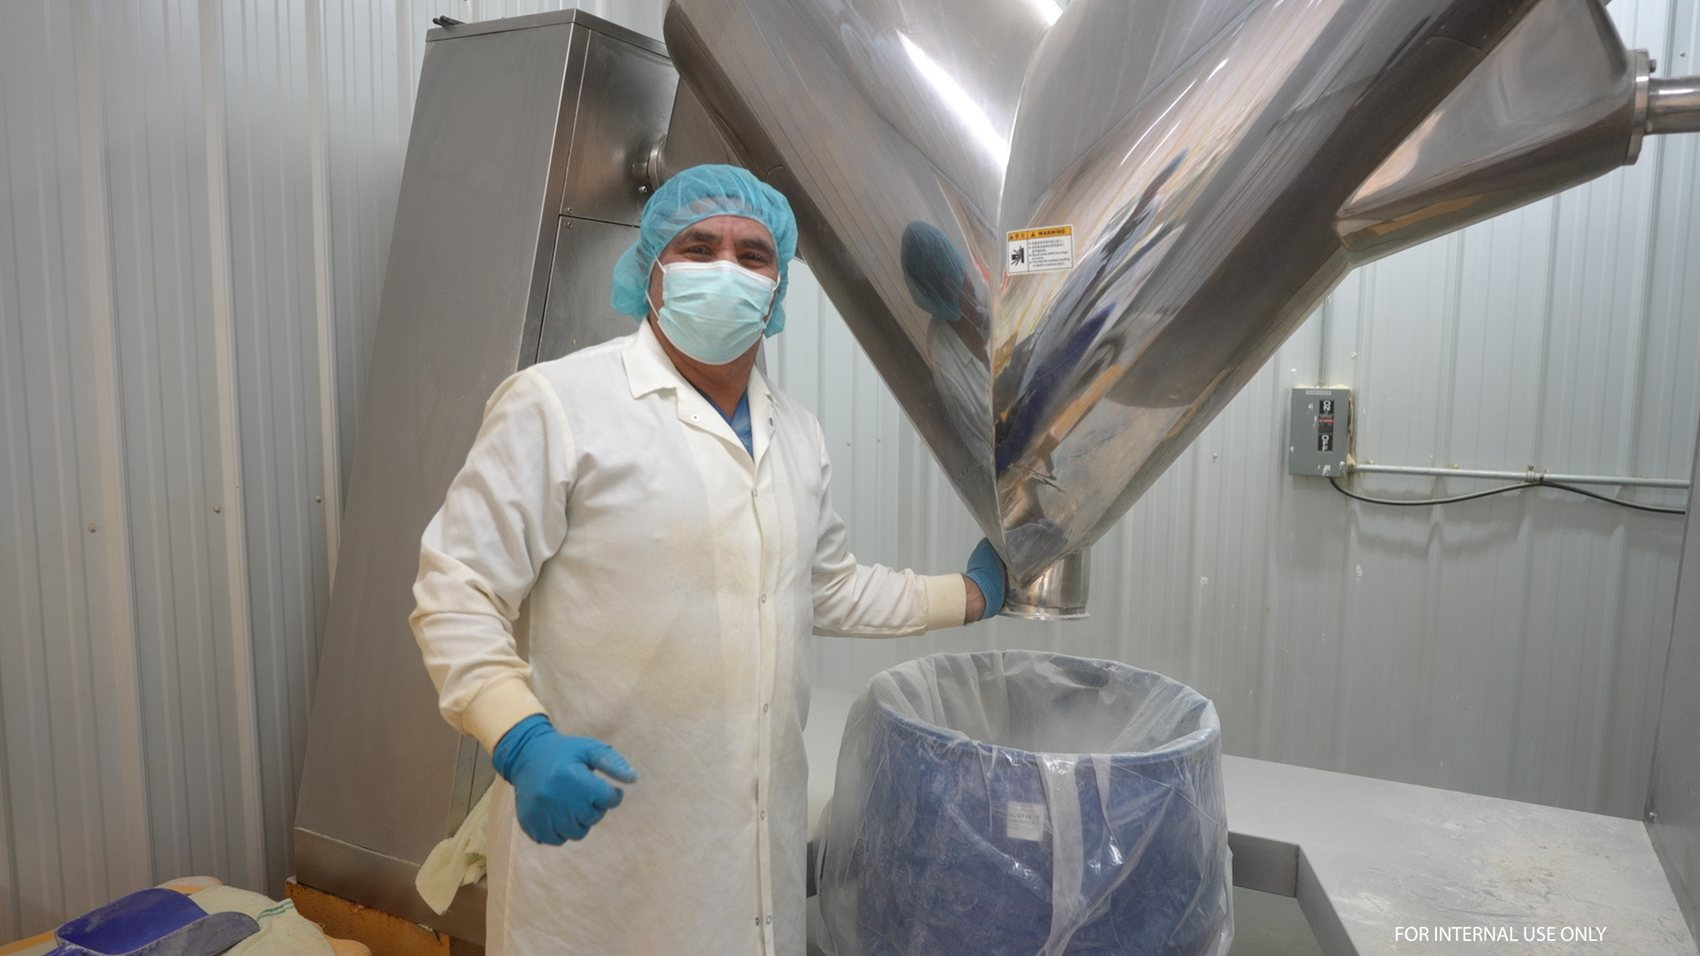
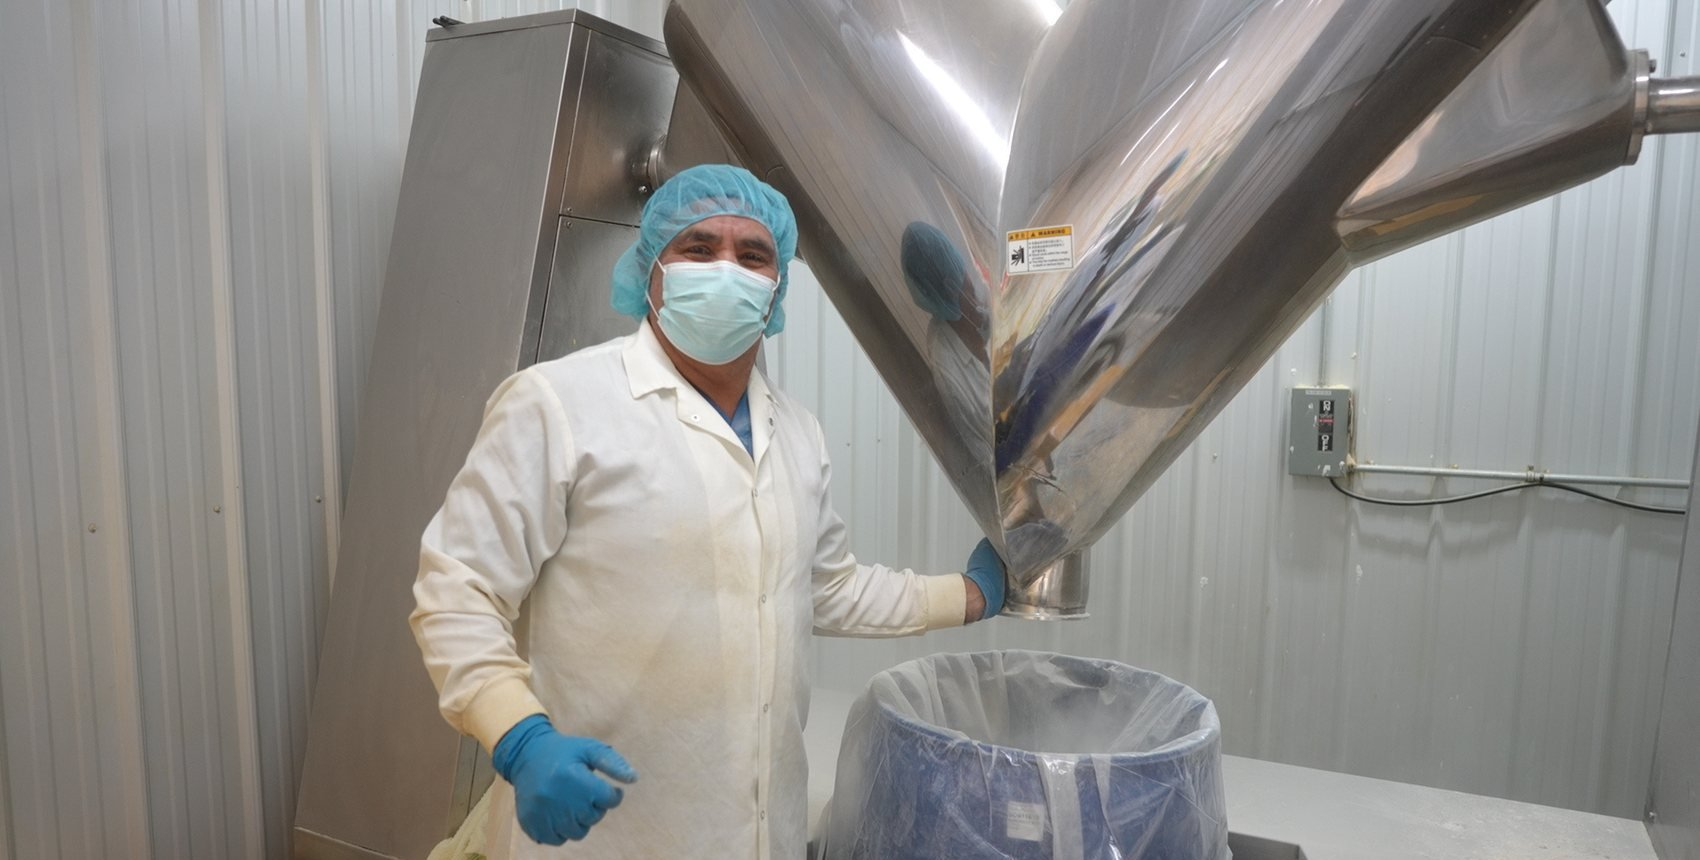
Chronology fix, two redundant visuals cut, internal-use watermarks removed
Structure: Partnership moved from chapter 04 to 09. Service-model detail
(response times, QBRs, account structure) was arriving before the buyer
had seen a single capability; the arc now runs thesis > platform > how
you win > four entities > retail proof > partnership > team > plan.
Chapters renumbered 01-11, TOC and figures follow.

Cut: figure 03 (reach rings) restated facts that chapters 02, 04 and 11
each prove properly; the partnership photo strip reused images already
serving as band backgrounds; the team section opened with a paragraph
duplicating its own band sub. The calculator also referenced 'section
03' for a comparison that lives in the thesis.

Caught in review: four extracted photos (fac-blend, fac-bottling,
labworker-bw, sup-line) carried a FOR INTERNAL USE ONLY watermark from
the source PDF, two of them visible on the live page. Bottom 10%
cropped off all four.

diff --git a/index.html b/index.html
@@ -609,12 +609,12 @@ html.tswap,html.tswap *{transition:background-color .4s ease,color .4s ease,bord
   <a href="#thesis"><span class="n">01</span>The Thesis</a>
   <a href="#ecosystem"><span class="n">02</span>Ecosystem</a>
   <a href="#wins"><span class="n">03</span>How You Win</a>
-  <a href="#partnership"><span class="n">04</span>Partnership</a>
-  <a href="#labs"><span class="n">05</span>Health Labs</a>
-  <a href="#ingredients"><span class="n">06</span>Ingredients</a>
-  <a href="#curi"><span class="n">07</span>Curí</a>
-  <a href="#supplements"><span class="n">08</span>Supplements</a>
-  <a href="#retail"><span class="n">09</span>Retail</a>
+  <a href="#labs"><span class="n">04</span>Health Labs</a>
+  <a href="#ingredients"><span class="n">05</span>Ingredients</a>
+  <a href="#curi"><span class="n">06</span>Curí</a>
+  <a href="#supplements"><span class="n">07</span>Supplements</a>
+  <a href="#retail"><span class="n">08</span>Retail</a>
+  <a href="#partnership"><span class="n">09</span>Partnership</a>
   <a href="#team"><span class="n">10</span>The Team</a>
   <a href="#plan"><span class="n">11</span>Plan</a>
   <a href="#contact">Contact</a>
@@ -993,46 +993,6 @@ html.tswap,html.tswap *{transition:background-color .4s ease,color .4s ease,bord
       </div>
     </div>
 
-    <figure class="dfig rv" id="fig-reach" style="margin:0">
-      <div class="fig-head">
-        <div><span class="lab">Figure 03</span><h3 class="h3">The reach of one platform</h3></div>
-        <p class="body">Three numbers carry the whole capability argument. Each one is a different axis of the same claim: you will not outgrow this partner, in category, in format, or in scope.</p>
-        <span class="fig-hint">Select a ring</span>
-      </div>
-      <div class="fig-body">
-        <div class="fig-plot">
-          <svg viewBox="0 0 900 300" role="img" aria-label="Three rings: 65 plus health categories, six product formats, and an A to Z full service stack">
-            <g class="hit" data-k="Market reach" data-t="65+ health categories" data-d="From sports nutrition and weight management to prenatal, nootropics and adaptogens. The live stock catalog alone spans 31 categories with four or more SKUs each, which you can open in chapter 11." data-m="Twelve representative categories are shown in the grid below." tabindex="0" role="button" aria-pressed="true" transform="translate(150,140)">
-              <circle r="96" fill="none" stroke="var(--rule-soft)" stroke-width="20"/>
-              <circle class="rg drawline" style="--L:603" r="96" fill="none" fill-opacity="0" stroke="var(--teal-band)" stroke-width="20" transform="rotate(-90)" stroke-dasharray="512 603"/>
-              <text y="-2" text-anchor="middle" class="lv" style="font-size:40px">65+</text>
-              <text y="24" text-anchor="middle" class="ls">Categories</text>
-              <text y="128" text-anchor="middle" class="lb">Market reach</text>
-            </g>
-            <g class="hit" data-k="Format coverage" data-t="Six product formats" data-d="Capsules, tablets, powders, gummies, liquids and softgels, produced on purpose-built lines rather than repurposed pharma equipment. One formulation can be validated across every format on the same campus." data-m="Softgels are produced via qualified external partners." tabindex="0" role="button" aria-pressed="false" transform="translate(450,140)">
-              <circle r="96" fill="none" stroke="var(--rule-soft)" stroke-width="20"/>
-              <circle class="rg drawline" style="--L:603" r="96" fill="none" fill-opacity="0" stroke="var(--teal)" stroke-width="20" transform="rotate(-90)" stroke-dasharray="603 0"/>
-              <text y="-2" text-anchor="middle" class="lv" style="font-size:40px">6</text>
-              <text y="24" text-anchor="middle" class="ls">Formats</text>
-              <text y="128" text-anchor="middle" class="lb">Capsules to gummies</text>
-            </g>
-            <g class="hit" data-k="Scope of service" data-t="A to Z, formulation to shelf" data-d="Nine steps, one company: raw ingredients, formulation, manufacturing, quality control, testing, labeling, packaging, warehousing and shipping. Nothing in that list is subcontracted out and back." data-m="This is the same nine-step chain shown in chapter 02." tabindex="0" role="button" aria-pressed="false" transform="translate(750,140)">
-              <circle r="96" fill="none" stroke="var(--rule-soft)" stroke-width="20"/>
-              <circle class="rg drawline" style="--L:603" r="96" fill="none" fill-opacity="0" stroke="var(--ink)" stroke-width="20" transform="rotate(-90)" stroke-dasharray="603 0"/>
-              <text y="-2" text-anchor="middle" class="lv" style="font-size:38px">A&#8211;Z</text>
-              <text y="24" text-anchor="middle" class="ls">Full stack</text>
-              <text y="128" text-anchor="middle" class="lb">Formulation to shelf</text>
-            </g>
-          </svg>
-        </div>
-        <aside class="fig-read" data-read>
-          <span class="fk" data-k></span>
-          <div class="ft" data-t></div>
-          <p class="fd" data-d></p>
-          <p class="fm" data-m></p>
-        </aside>
-      </div>
-    </figure>
 
     <div class="two even">
       <div class="grid g2">
@@ -1046,81 +1006,10 @@ html.tswap,html.tswap *{transition:background-color .4s ease,color .4s ease,bord
   </div>
 </section>
 
-<!-- ================= 04 PARTNERSHIP ================= -->
-<section class="band" id="partnership" style="--bimg:url('img/sup-line.jpg');--bpos:center 30%">
-  <div class="wrap band-in">
-    <div class="idx num">04</div>
-    <div>
-      <h2 class="h1">Your FAME-X Partnership</h2>
-      <p class="sub">One dedicated team. One connected platform.</p>
-    </div>
-  </div>
-</section>
-
-<section class="sec">
-  <div class="wrap stack">
-    <div class="pillars">
-      <div class="pillar tint">
-        <h3 class="h2" style="font-size:clamp(24px,2.6vw,36px)">4-HR Response Commitment</h3>
-        <p class="body"><b>Proactive brand support.</b> During business hours.</p>
-      </div>
-      <div class="pillar tint">
-        <h3 class="h2" style="font-size:clamp(24px,2.6vw,36px)">Nimble Manufacturing</h3>
-        <p class="body"><b>Scheduled production and second-shift access,</b> aligned with retail strategy.</p>
-      </div>
-      <div class="pillar tint">
-        <h3 class="h2" style="font-size:clamp(24px,2.6vw,36px)">24/7</h3>
-        <p class="body"><b>Always on portal visibility.</b> Real-time, customizable triggers.</p>
-      </div>
-    </div>
-
-    <div>
-      <div class="eco-tabs" role="tablist" aria-label="Partnership detail" id="ptabs">
-        <button role="tab" data-p="inc" aria-selected="true">What's included</button>
-        <button role="tab" data-p="why" aria-selected="false">Why F.A.M.E.</button>
-        <button role="tab" data-p="roi" aria-selected="false">ROI acceleration</button>
-      </div>
-      <div class="ptab" id="ptab-inc">
-        <ul class="plain">
-          <li><b>Dedicated account representative.</b> Executive-level strategist aligned with your business objectives.</li>
-          <li><b>In-house team.</b> Cross-functional experts mobilized for immediate issue resolution.</li>
-          <li><b>Executive escalation protocol.</b> Direct access to senior leadership when required.</li>
-          <li><b>Weekly status meeting.</b> Proactive updates that remove the need to request information.</li>
-          <li><b>Quarterly business reviews.</b> Strategic analysis sessions with improvement roadmaps.</li>
-        </ul>
-      </div>
-      <div class="ptab" id="ptab-why" hidden>
-        <ul class="plain">
-          <li><b>Multi-entity platform integration.</b> One ecosystem across ingredients, manufacturing, testing and data.</li>
-          <li><b>Infrastructure built to scale.</b> Production systems designed from the ground up for large runs without compromising quality or timeline.</li>
-          <li><b>Scale-appropriate account direction.</b> Executive-level account management with direct decision-making authority.</li>
-          <li><b>Enterprise-level risk management.</b> Quality assurance systems designed to protect and scale brands.</li>
-        </ul>
-      </div>
-      <div class="ptab" id="ptab-roi" hidden>
-        <ul class="plain">
-          <li><b>Revenue acceleration.</b> Earlier shelf dates pull revenue forward.</li>
-          <li><b>Market share capture.</b> Early entry into emerging categories.</li>
-          <li><b>Opportunity capture.</b> Platform speed reduces lost revenue from delayed launches.</li>
-          <li><b>Protection.</b> Formula optimization without quality compromise.</li>
-          <li><b>Brand elevation.</b> Quality consistency supporting premium positioning.</li>
-        </ul>
-      </div>
-    </div>
-
-    <div class="strip s4">
-      <div class="sc"><img src="img/fac-sieve.jpg" alt="Operator sieving material"></div>
-      <div class="sc"><img src="img/sup-line.jpg" alt="Operator on the bottling line"></div>
-      <div class="sc"><img src="img/capsules-scatter.jpg" alt="Finished capsules"></div>
-      <div class="sc"><img src="img/hand-capsules.jpg" alt="A hand holding finished capsules"></div>
-    </div>
-  </div>
-</section>
-
 <!-- ================= 05 HEALTH LABS ================= -->
 <section class="band" id="labs" style="--bimg:url('img/fac-blend.jpg');--bpos:center 40%">
   <div class="wrap band-in">
-    <div class="idx num">05</div>
+    <div class="idx num">04</div>
     <div>
       <h2 class="h1">F.A.M.E. Health Labs</h2>
       <p class="sub">Our full-service contract manufacturer. Six formats, sixty-five plus categories, one quality system.</p>
@@ -1176,7 +1065,7 @@ html.tswap,html.tswap *{transition:background-color .4s ease,color .4s ease,bord
 <!-- ================= 06 INGREDIENTS ================= -->
 <section class="band" id="ingredients" style="--bimg:url('img/ing-turmeric.jpg');--bpos:center 50%">
   <div class="wrap band-in">
-    <div class="idx num">06</div>
+    <div class="idx num">05</div>
     <div>
       <h2 class="h1">F.A.M.E. Ingredients</h2>
       <p class="sub">Our in-house material sourcing, blending and innovation arm. Controlling the input is what makes the output fast.</p>
@@ -1215,7 +1104,7 @@ html.tswap,html.tswap *{transition:background-color .4s ease,color .4s ease,bord
 
     <figure class="dfig rv" id="fig-ing" style="margin:0">
       <div class="fig-head">
-        <div><span class="lab">Figure 04</span><h3 class="h3">What owning the ingredient buys you</h3></div>
+        <div><span class="lab">Figure 03</span><h3 class="h3">What owning the ingredient buys you</h3></div>
         <p class="body">Most manufacturers control one of these and buy the other two. Holding all three on one campus is why a formulation change does not become a procurement project.</p>
         <span class="fig-hint">Select a region</span>
       </div>
@@ -1263,7 +1152,7 @@ html.tswap,html.tswap *{transition:background-color .4s ease,color .4s ease,bord
 <!-- ================= 07 CURI ================= -->
 <section class="band" id="curi" style="--bimg:url('img/curi-tubes.jpg');--bpos:center 42%">
   <div class="wrap band-in">
-    <div class="idx num">07</div>
+    <div class="idx num">06</div>
     <div>
       <h2 class="h1">Curí</h2>
       <p class="sub">Our in-house scientific innovation, testing and commercialization team. Accuracy protects people.</p>
@@ -1311,7 +1200,7 @@ html.tswap,html.tswap *{transition:background-color .4s ease,color .4s ease,bord
 
     <figure class="dfig rv" id="fig-curi" style="margin:0">
       <div class="fig-head">
-        <div><span class="lab">Figure 05</span><h3 class="h3">Accredited testing and contract research, in one place</h3></div>
+        <div><span class="lab">Figure 04</span><h3 class="h3">Accredited testing and contract research, in one place</h3></div>
         <p class="body">Accredited testing labs and contract research organizations are usually separate vendors with separate queues. Curí is both, specialized in supplements, inside the same company that makes the product.</p>
         <span class="fig-hint">Select a region</span>
       </div>
@@ -1363,7 +1252,7 @@ html.tswap,html.tswap *{transition:background-color .4s ease,color .4s ease,bord
 <!-- ================= 08 SUPPLEMENTS ================= -->
 <section class="band" id="supplements" style="--bimg:url('img/pack-family.jpg');--bpos:center 60%">
   <div class="wrap band-in">
-    <div class="idx num">08</div>
+    <div class="idx num">07</div>
     <div>
       <h2 class="h1">F.A.M.E. Supplements</h2>
       <p class="sub">Our in-house stock and rapid launch platform. Two paths to shelf, both faster than custom.</p>
@@ -1439,7 +1328,7 @@ html.tswap,html.tswap *{transition:background-color .4s ease,color .4s ease,bord
 <!-- ================= 09 RETAIL ================= -->
 <section class="band" id="retail" style="--bimg:url('img/hero-cover.jpg');--bpos:center 30%">
   <div class="wrap band-in">
-    <div class="idx num">09</div>
+    <div class="idx num">08</div>
     <div>
       <h2 class="h1">Brand Retail Partners</h2>
       <p class="sub">Our clients' products sell across national retail and e-commerce channels.</p>
@@ -1470,6 +1359,71 @@ html.tswap,html.tswap *{transition:background-color .4s ease,color .4s ease,bord
   </div>
 </section>
 
+<!-- ================= 04 PARTNERSHIP ================= -->
+<section class="band" id="partnership" style="--bimg:url('img/sup-line.jpg');--bpos:center 30%">
+  <div class="wrap band-in">
+    <div class="idx num">09</div>
+    <div>
+      <h2 class="h1">Your FAME-X Partnership</h2>
+      <p class="sub">One dedicated team. One connected platform.</p>
+    </div>
+  </div>
+</section>
+
+<section class="sec">
+  <div class="wrap stack">
+    <div class="pillars">
+      <div class="pillar tint">
+        <h3 class="h2" style="font-size:clamp(24px,2.6vw,36px)">4-HR Response Commitment</h3>
+        <p class="body"><b>Proactive brand support.</b> During business hours.</p>
+      </div>
+      <div class="pillar tint">
+        <h3 class="h2" style="font-size:clamp(24px,2.6vw,36px)">Nimble Manufacturing</h3>
+        <p class="body"><b>Scheduled production and second-shift access,</b> aligned with retail strategy.</p>
+      </div>
+      <div class="pillar tint">
+        <h3 class="h2" style="font-size:clamp(24px,2.6vw,36px)">24/7</h3>
+        <p class="body"><b>Always on portal visibility.</b> Real-time, customizable triggers.</p>
+      </div>
+    </div>
+
+    <div>
+      <div class="eco-tabs" role="tablist" aria-label="Partnership detail" id="ptabs">
+        <button role="tab" data-p="inc" aria-selected="true">What's included</button>
+        <button role="tab" data-p="why" aria-selected="false">Why F.A.M.E.</button>
+        <button role="tab" data-p="roi" aria-selected="false">ROI acceleration</button>
+      </div>
+      <div class="ptab" id="ptab-inc">
+        <ul class="plain">
+          <li><b>Dedicated account representative.</b> Executive-level strategist aligned with your business objectives.</li>
+          <li><b>In-house team.</b> Cross-functional experts mobilized for immediate issue resolution.</li>
+          <li><b>Executive escalation protocol.</b> Direct access to senior leadership when required.</li>
+          <li><b>Weekly status meeting.</b> Proactive updates that remove the need to request information.</li>
+          <li><b>Quarterly business reviews.</b> Strategic analysis sessions with improvement roadmaps.</li>
+        </ul>
+      </div>
+      <div class="ptab" id="ptab-why" hidden>
+        <ul class="plain">
+          <li><b>Multi-entity platform integration.</b> One ecosystem across ingredients, manufacturing, testing and data.</li>
+          <li><b>Infrastructure built to scale.</b> Production systems designed from the ground up for large runs without compromising quality or timeline.</li>
+          <li><b>Scale-appropriate account direction.</b> Executive-level account management with direct decision-making authority.</li>
+          <li><b>Enterprise-level risk management.</b> Quality assurance systems designed to protect and scale brands.</li>
+        </ul>
+      </div>
+      <div class="ptab" id="ptab-roi" hidden>
+        <ul class="plain">
+          <li><b>Revenue acceleration.</b> Earlier shelf dates pull revenue forward.</li>
+          <li><b>Market share capture.</b> Early entry into emerging categories.</li>
+          <li><b>Opportunity capture.</b> Platform speed reduces lost revenue from delayed launches.</li>
+          <li><b>Protection.</b> Formula optimization without quality compromise.</li>
+          <li><b>Brand elevation.</b> Quality consistency supporting premium positioning.</li>
+        </ul>
+      </div>
+    </div>
+
+  </div>
+</section>
+
 <!-- ================= 10 TEAM ================= -->
 <section class="band" id="team" style="--bimg:url('img/team-bw.jpg');--bpos:center 30%">
   <div class="wrap band-in">
@@ -1485,7 +1439,6 @@ html.tswap,html.tswap *{transition:background-color .4s ease,color .4s ease,bord
   <div class="wrap stack">
     <div class="two">
       <div class="stack-sm">
-        <p class="body" style="font-size:clamp(15px,1.35vw,18px)">At F.A.M.E., scientists, manufacturing experts, quality professionals and commercial leaders work together as one team with a shared commitment to innovation, speed and execution. That collaborative culture helps our clients launch faster, scale with confidence and build lasting partnerships.</p>
         <p class="body">Through <b>Cedars Rising</b>, our 501c3 nonprofit, we invest in the communities where we operate through workforce development, educational partnerships and local initiatives. Our Federal Work Study partnership with Emory University reflects our commitment to developing the next generation of scientific talent.</p>
         <p class="body"><b>We look forward to becoming an extension of your team and helping build your brand's next chapter.</b></p>
       </div>
@@ -1523,7 +1476,7 @@ html.tswap,html.tswap *{transition:background-color .4s ease,color .4s ease,bord
   <div class="wrap stack">
     <div class="sec-head">
       <div><span class="lab">Your launch math</span><h2 class="h2">Run your launch numbers.</h2></div>
-      <p class="body">Set your run, your price and your expected sell-through. The calendar below is the same 4-week versus 12&#8211;16-week comparison from section 03, priced in your terms. Arithmetic, not a forecast.</p>
+      <p class="body">Set your run, your price and your expected sell-through. The calendar below is the same 4-week versus 12&#8211;16-week comparison from the thesis, priced in your terms. Arithmetic, not a forecast.</p>
     </div>
 
     <div class="calc">
